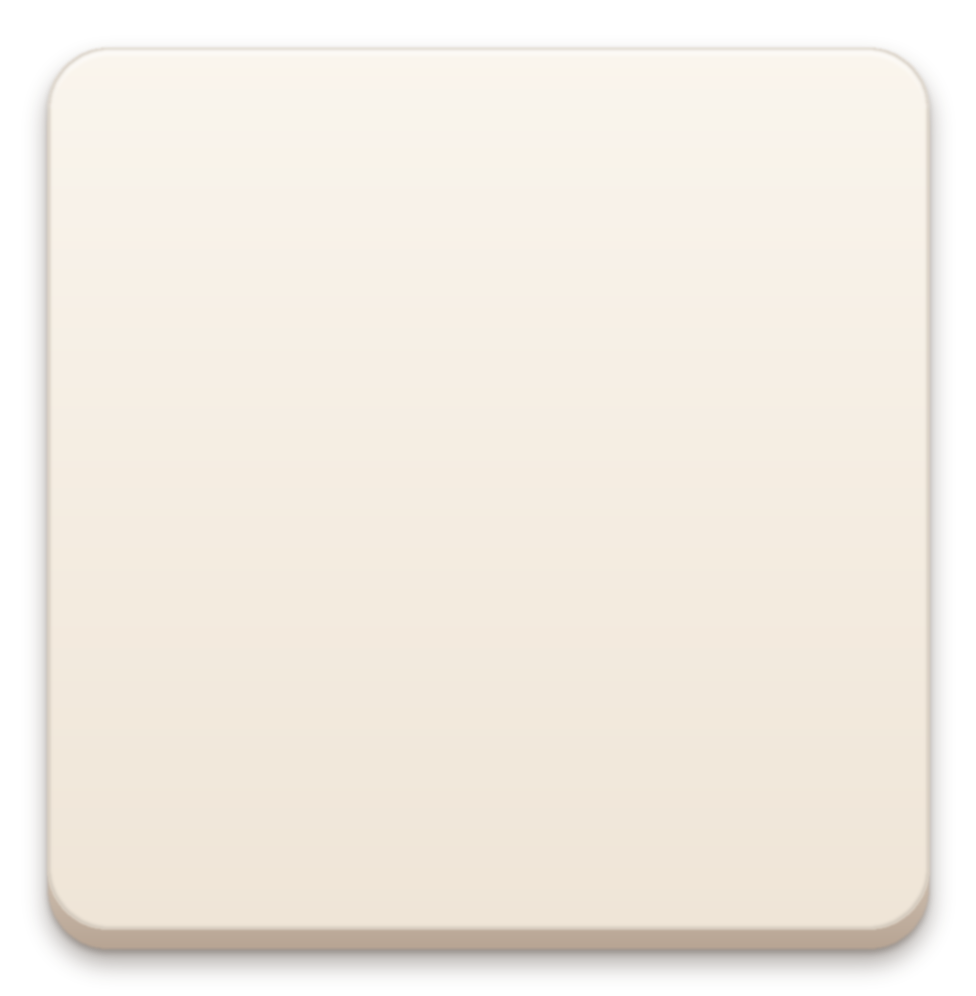
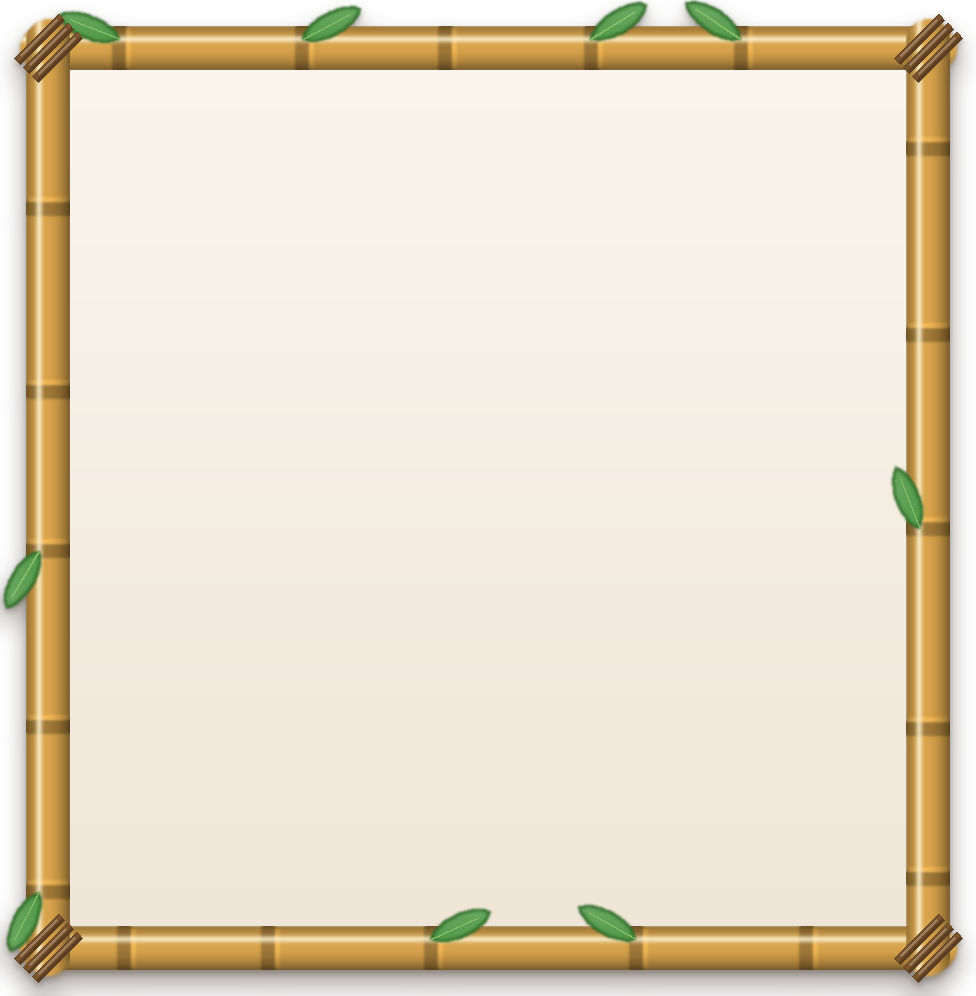
Hauptmenü: Bambusrahmen zurück, im neuen Stil (Lucas Wunsch)
Tafeln wieder in Bambusstangen, jetzt als Zylinder beleuchtet statt
gemalt: Knoten mit heller Kante, saubere Blätter, Schnur an den Ecken.
Knöpfe, Logo und grüne Felder bleiben wie im neuen Look.

Claude-Session: https://claude.ai/code/session_01PSZ5jd79U9dVsko8UYPXXi

Changed region(s): [[0.0, 0.0, 1.0, 1.0]]

diff --git a/Tools/menu/menu_art.py b/Tools/menu/menu_art.py
@@ -2,7 +2,8 @@
 """Art for the main menu in the figures' colours (Mushroom.png), clean and
 chunky: smooth faces with a soft gradient, a thin darker rim, a lighter top
 edge, and a solid lip underneath that gives every board and button depth,
-as if moulded from plastic. No brush strokes, no black outlines. The title is
+as if moulded from plastic; the big boards sit in a frame of round
+bamboo poles tied at the corners. No brush strokes, no black outlines. The title is
 lettering with a bevelled face, a brown extrusion and a cast shadow.
 
 Writes PNGs at twice the menu's design size (1080 px high) to
@@ -13,6 +14,7 @@ every side; MainMenuView.axaml places them by that). Needs Pillow only.
 """
 import math
 import os
+import random
 import sys
 
 from PIL import Image, ImageChops, ImageDraw, ImageFilter, ImageFont
@@ -28,12 +30,14 @@ RED = (196, 35, 31)
 CREAM = (246, 236, 222)
 GREEN = (63, 143, 53)
 BROWN = (91, 58, 36)
+BAMBOO = (217, 164, 76)
 YELLOW = (248, 204, 64)     # a button under the pointer (Luca: lights up yellow)
 WHITE = (255, 255, 255)
 
+SEED = 7
+
 # Lip heights in design pixels; MainMenuView.axaml and MenuTheme.axaml shift
 # the text up by half of them (and down again on a press).
-BOARD_LIP = 10
 BUTTON_LIP = 7
 SMALL_LIP = 6
 NOTE_LIP = 8
@@ -152,6 +156,93 @@ def button(state, w=380, h=66, lip=BUTTON_LIP):
     return shadow(pic, mask, dy=4 if state != 'down' else 2, radius=4, strength=80)
 
 
+# ---------------------------------------------------------------- bamboo
+
+def pole(length, thick, rng, vertical):
+    """A bamboo pole like the figure's cane, lit as a cylinder from above:
+    nodes as darker rings with a light edge, now and then a leaf. Returns an
+    RGBA strip of length x thick design pixels plus room for the leaves."""
+    L, T = int(length * S), int(thick * S)
+    room = int(thick * 1.6 * S)
+    size = (L + 2 * room, T + 2 * room)
+    img = Image.new('RGBA', size, (0, 0, 0, 0))
+    y0, x0 = room, room
+
+    def profile(k):
+        col = Image.new('RGBA', size)
+        d = ImageDraw.Draw(col)
+        for y in range(T):
+            t = (y + 0.5) / T
+            light = 0.66 + 0.4 * math.sin(math.pi * t) ** 0.8 - 0.14 * t
+            c = mix(shade(BAMBOO, light * k), (255, 246, 214), 0.75 * math.exp(-((t - 0.3) / 0.08) ** 2))
+            d.line([(0, y0 + y), (size[0], y0 + y)], fill=c + (255,))
+        return col
+
+    put(img, profile(1.0), pill(size, (x0, y0, x0 + L, y0 + T), T // 2))
+    dark, bright = profile(0.74), profile(1.12)
+    leaves = Image.new('RGBA', size, (0, 0, 0, 0))
+    x = x0 + rng.uniform(40, 70) * S
+    while x < x0 + L - 25 * S:
+        put(img, dark, pill(size, (x - 3.5 * S, y0 - S, x + 3.5 * S, y0 + T + S), 2 * S))
+        put(img, bright, pill(size, (x + 3.5 * S, y0 + S, x + 5.5 * S, y0 + T - S), S))
+        if rng.random() < 0.4:
+            turn = -rng.uniform(0.35, 0.6) if rng.random() < 0.5 else math.pi + rng.uniform(0.35, 0.6)
+            leaf(leaves, x, y0 + T * 0.3, turn, thick * 1.5 * S, thick * 0.55 * S)
+        x += rng.uniform(70, 110) * S
+    img.alpha_composite(leaves)
+    if vertical:
+        img = img.rotate(90, expand=True)
+    return img, room
+
+
+def leaf(img, x, y, turn, length, width):
+    """A clean leaf: darker edge, lighter towards its tip, a light midrib."""
+    size = img.size
+    shape = Image.new('L', size, 0)
+    ImageDraw.Draw(shape).polygon([(x + a, y + b) for a, b in leaf_shape(length, width, turn)], fill=255)
+    shape = shape.filter(ImageFilter.GaussianBlur(0.6 * S))
+    put(img, flat(size, shade(GREEN, 0.72)), shape)
+    inner = shape.filter(ImageFilter.MinFilter(2 * S + 1)).filter(ImageFilter.GaussianBlur(0.5 * S))
+    put(img, gradient(size, y - width, y + width, mix(GREEN, WHITE, 0.2), GREEN), inner)
+    d = ImageDraw.Draw(img)
+    vx, vy = math.cos(turn), math.sin(turn)
+    d.line([(x, y), (x + vx * length * 0.8, y + vy * length * 0.8)], fill=mix(GREEN, (220, 240, 160), 0.45), width=S)
+
+
+def twine(img, x, y):
+    """Brown cord wound round a corner where two poles cross."""
+    d = ImageDraw.Draw(img)
+    cord, light = mix(BROWN, BAMBOO, 0.25), mix(BROWN, (255, 230, 190), 0.4)
+    for k in range(3):
+        off = (k - 1) * 4.5 * S
+        a = (x - 11 * S + off, y + 11 * S + off)
+        b = (x + 11 * S + off, y - 11 * S + off)
+        d.line([a, b], fill=shade(cord, 0.75), width=int(4.5 * S))
+        d.line([(a[0], a[1] - S), (b[0], b[1] - S)], fill=cord, width=int(3 * S))
+        d.line([(a[0] + 2 * S, a[1] - 3 * S), (b[0] - 2 * S, b[1] + S)], fill=light, width=S)
+
+
+def framed(w, h, rng):
+    """A clean cream board in a frame of bamboo poles crossing and tied at
+    the corners."""
+    pic, mask = slab(w, h, (mix(CREAM, WHITE, 0.45), shade(CREAM, 0.97)), 0, 26)
+    thick, over = 22, 14
+    p = PAD * S
+    poles = Image.new('RGBA', pic.size, (0, 0, 0, 0))
+    for top in (True, False):
+        strip, room = pole(w + 2 * over, thick, rng, False)
+        y = p - thick * S // 2 if top else p + h * S - thick * S // 2
+        poles.alpha_composite(strip, (p - over * S - room, y - room))
+    for left in (True, False):
+        strip, room = pole(h + 2 * over, thick, rng, True)
+        x = p - thick * S // 2 if left else p + w * S - thick * S // 2
+        poles.alpha_composite(strip, (x - room, p - over * S - room))
+    for cx, cy in ((p, p), (p + w * S, p), (p, p + h * S), (p + w * S, p + h * S)):
+        twine(poles, cx, cy)
+    pic.alpha_composite(poles)
+    return shadow(pic, ImageChops.lighter(mask, poles.getchannel('A')), dy=7, radius=6, strength=110)
+
+
 # ---------------------------------------------------------------- title
 
 def bevel(mask, width, strength):
@@ -267,10 +358,11 @@ def logo():
 
 
 def main():
+    rng = random.Random(SEED)
     os.makedirs(OUT, exist_ok=True)
     pieces = {
-        'Panel': lambda: board(440, 450, (mix(CREAM, WHITE, 0.45), shade(CREAM, 0.97)), BOARD_LIP, 30),
-        'Wide': lambda: board(820, 560, (mix(CREAM, WHITE, 0.45), shade(CREAM, 0.97)), BOARD_LIP, 30),
+        'Panel': lambda: framed(440, 450, rng),
+        'Wide': lambda: framed(820, 560, rng),
         'Button': lambda: button('idle'),
         'ButtonHot': lambda: button('hot'),
         'ButtonDown': lambda: button('down'),
